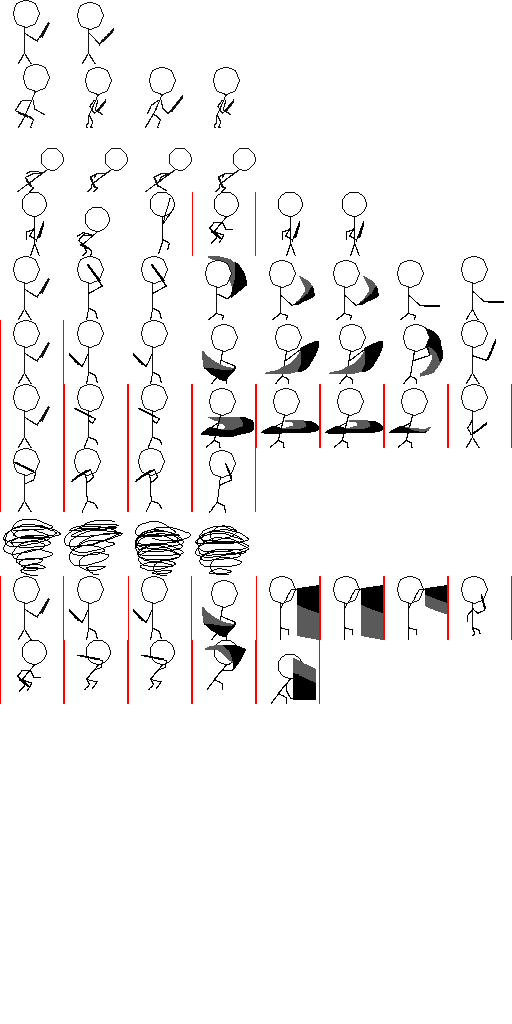
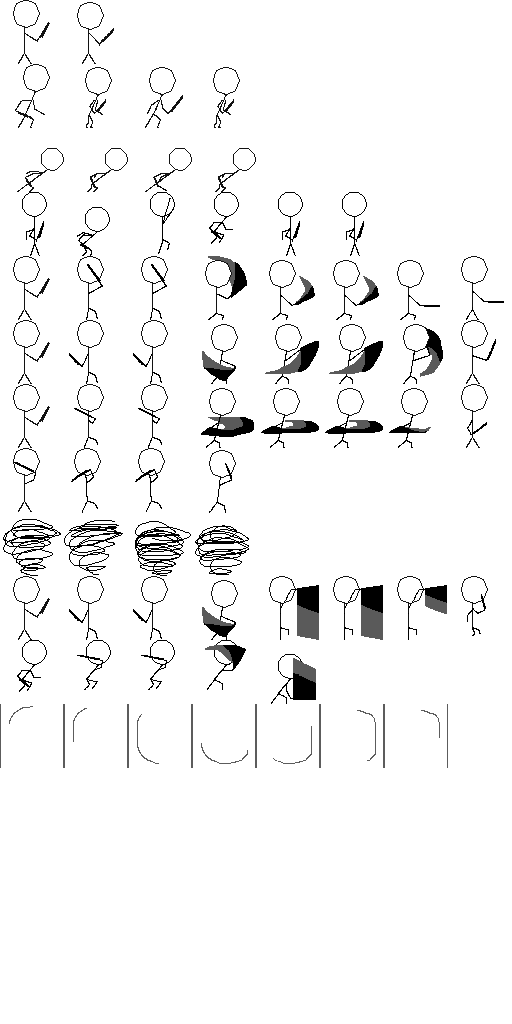
add taunt

diff --git a/src/application/player.c b/src/application/player.c
@@ -28,7 +28,8 @@ typedef enum
     PS_SPECIAL_DOWN =           6,
     PS_SPECIAL_UP =             7,
     PS_DOWN_ATTACK =            8,
-    PS_BLOCK =                  9
+    PS_BLOCK =                  9,
+    PS_TAUNT =                  10
 } PlayerState;
 
 typedef enum
@@ -61,6 +62,7 @@ uint8_t player_special_down();
 uint8_t player_special_up();
 uint8_t player_down_attack();
 uint8_t player_blocking();
+uint8_t player_taunt();
 
 void player_special_neutral_perform(Entity *self);
 void player_special_neutral_touch(Entity *self, Entity *other);
@@ -228,6 +230,10 @@ void player_think(Entity *self)
     {
         attacking = 0;
         currentState = PS_JUMPING;
+    }
+    else if ( player_taunt() )
+    {
+        currentState = PS_TAUNT;
     }
     else if( attacking )
     {
@@ -465,6 +471,10 @@ void player_think(Entity *self)
         {
             gobj->isProtected = 1;
         }
+        break;
+
+    case PS_TAUNT:
+        player_play_anim(self->anim, pj_anim_taunt(), pj_anim_taunt_speed() );
         break;
     
     default:
@@ -730,6 +740,18 @@ uint8_t player_blocking()
         btn = 0;
     }
 
+    return btn;
+}
+
+/* ==================== TAUNT =================== */
+uint8_t player_taunt()
+{
+    uint8_t btn = gf2d_input_key_just_pressed(SDL_SCANCODE_T) || currentState == PS_TAUNT;
+    if(gf2d_input_key_released(SDL_SCANCODE_T))
+    {
+        btn = 0;
+    }
+    slog("taunt %u", btn);
     return btn;
 }
 

diff --git a/src/application/punti_jordan.c b/src/application/punti_jordan.c
@@ -55,6 +55,9 @@ typedef struct
     
     uint32_t                downAttack[2];
     float                   downAttackSpeed;
+
+    uint32_t                taunt[2];
+    float                   tauntSpeed;
 } PuntiJordanConfig;
 
 static PuntiJordanConfig pj_config = {0};
@@ -83,6 +86,7 @@ void punti_jordan_load(const char *filename)
     punti_jordan_load_anim_values(pj_config.tornado, &pj_config.tornadoSpeed, sj_object_get_value(json, "tornado"));
     punti_jordan_load_anim_values(pj_config.recover, &pj_config.recoverSpeed, sj_object_get_value(json, "recover"));
     punti_jordan_load_anim_values(pj_config.downAttack, &pj_config.downAttackSpeed, sj_object_get_value(json, "downAttack"));
+    punti_jordan_load_anim_values(pj_config.taunt, &pj_config.tauntSpeed, sj_object_get_value(json, "taunt"));
 
     punti_jordan_load_dash( sj_object_get_value(json, "dash") );
     punti_jordan_load_spin_sword( sj_object_get_value(json, "spinSword") );
@@ -246,6 +250,16 @@ uint32_t *pj_anim_down_attack()
 float pj_anim_down_attack_speed()
 {
     return pj_config.downAttackSpeed;
+}
+
+uint32_t *pj_anim_taunt()
+{
+    return pj_config.taunt;
+}
+
+float pj_anim_taunt_speed()
+{
+    return pj_config.tauntSpeed;
 }
 
 PJ_ATTACK_GET(slashDown)

diff --git a/include/application/punti_jordan.h b/include/application/punti_jordan.h
@@ -41,6 +41,9 @@ float pj_anim_recover_speed();
 uint32_t *pj_anim_down_attack();
 float pj_anim_down_attack_speed();
 
+uint32_t *pj_anim_taunt();
+float pj_anim_taunt_speed();
+
 PJ_ATTACK_SETUP(slashDown);
 PJ_ATTACK_SETUP(slashUp);
 PJ_ATTACK_SETUP(slashSide);
